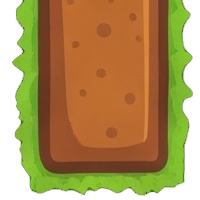
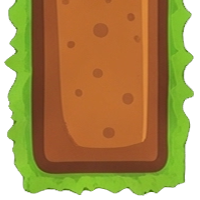
Added sprite direction to spit totem. some forest tile path fix

diff --git a/src/components/game/GameObjects.tsx b/src/components/game/GameObjects.tsx
@@ -8,9 +8,13 @@ import {
   GAP_SIZE,
   PLAYER_HITBOX_RADIUS, // Importa qui il raggio del giocatore
   PROJECTILE_HITBOX_RADIUS,
+  PROJECTILE_SPRITE_SIZE,
   IS_DEBUG_MODE // Importa la costante di debug
 } from "@/config/Constants";
-import totemSprite from "@/assets/ENEMY_totem_down.png";
+import totemSpriteDown from  "@/assets/ENEMY_totem_down.png";
+import totemSpriteUp from    "@/assets/ENEMY_totem_up.png";
+import totemSpriteLeft from  "@/assets/ENEMY_totem_left.png";
+import totemSpriteRight from "@/assets/ENEMY_totem_right.png";
 import projectileSprite from "@/assets/projectiles/totem_spit.png";
 
 interface GameObjectsProps {
@@ -20,6 +24,18 @@ interface GameObjectsProps {
 }
 
 const GameObjects = ({ level, gameState, assets }: GameObjectsProps) => {
+
+      // 1. Funzione helper per scegliere lo sprite del totem
+      const getTotemSprite = (direction: Direction) => {
+        switch (direction) {
+          case 'up': return totemSpriteUp;
+          case 'down': return totemSpriteDown;
+          case 'left': return totemSpriteLeft;
+          case 'right': return totemSpriteRight;
+          default: return totemSpriteDown; // Default nel caso la direzione non sia definita
+        }
+      };
+
   return (
     <>
       {/* RENDERIZZAZIONE DELLE CHIAVI */}
@@ -88,67 +104,66 @@ const GameObjects = ({ level, gameState, assets }: GameObjectsProps) => {
         </div>
       ))}
 
-      {/* RENDERIZZAZIONE DEI TOTEM */}
-      {gameState.spittingTotems.map((totem) => (
-          <div
-            key={totem.id}
-            className="absolute z-10"
-            style={{
-                width: CELL_SIZE,
-                height: CELL_SIZE,
-                left: totem.position.x * (CELL_SIZE + GAP_SIZE),
-                top: totem.position.y * (CELL_SIZE + GAP_SIZE),
-            }}
-          >
-            <img src={totemSprite} alt="Totem" className="w-full h-full object-contain" />
-          </div>
-      ))}
+      {/* RENDERIZZAZIONE DEI TOTEM (aggiornato) */}
+            {gameState.spittingTotems.map((totem) => (
+                <div
+                  key={totem.id}
+                  className="absolute z-10"
+                  style={{
+                      width: CELL_SIZE,
+                      height: CELL_SIZE,
+                      left: totem.position.x * (CELL_SIZE + GAP_SIZE),
+                      top: totem.position.y * (CELL_SIZE + GAP_SIZE),
+                  }}
+                >
+                  {/* 2. Usiamo la funzione helper per impostare l'immagine corretta */}
+                  <img src={getTotemSprite(totem.direction)} alt="Totem" className="w-full h-full object-contain" />
+                </div>
+            ))}
 
- {/* RENDERIZZAZIONE DEI PROIETTILI CON MOVIMENTO FLUIDO */}
-      {gameState.projectiles.map((projectile) => (
-          <div
-            key={projectile.id}
-            className="absolute z-10"
-            style={{
-                left: projectile.position.x,
-                top: projectile.position.y,
-                transform: 'translate(-50%, -50%)',
-                width: 24,
-                height: 24,
-            }}
-          >
-            <img src={projectileSprite} alt="Proiettile" className="w-full h-full object-contain" />
+            {/* RENDERIZZAZIONE DEI PROIETTILI CON MOVIMENTO FLUIDO (aggiornato) */}
+            {gameState.projectiles.map((projectile) => (
+                <div
+                  key={projectile.id}
+                  className="absolute z-10"
+                  style={{
+                      left: projectile.position.x,
+                      top: projectile.position.y,
+                      transform: 'translate(-50%, -50%)',
+                      width: PROJECTILE_SPRITE_SIZE,  // 3. Usiamo la costante
+                      height: PROJECTILE_SPRITE_SIZE, // 3. Usiamo la costante
+                  }}
+                >
+                  <img src={projectileSprite} alt="Proiettile" className="w-full h-full object-contain" />
+                  {IS_DEBUG_MODE && (
+                      <div
+                          className="absolute rounded-full border-2 border-red-500 bg-red-500/30"
+                          style={{
+                              width: PROJECTILE_HITBOX_RADIUS * 2,
+                              height: PROJECTILE_HITBOX_RADIUS * 2,
+                              left: '50%',
+                              top: '50%',
+                              transform: 'translate(-50%, -50%)',
+                          }}
+                      />
+                  )}
+                </div>
+            ))}
 
-            {/* DEBUG: Hitbox del Proiettile */}
+            {/* DEBUG: Hitbox del Giocatore (aggiornato) */}
             {IS_DEBUG_MODE && (
                 <div
-                    className="absolute rounded-full border-2 border-red-500 bg-red-500/30"
+                    className="absolute rounded-full border-2 border-green-500 bg-green-500/30 z-20"
                     style={{
-                        width: PROJECTILE_HITBOX_RADIUS * 2,  // Diametro = Raggio * 2
-                        height: PROJECTILE_HITBOX_RADIUS * 2, // Diametro = Raggio * 2
-                        left: '50%', // Centra rispetto al proiettile padre
-                        top: '50%',  // Centra rispetto al proiettile padre
-                        transform: 'translate(-50%, -50%)', // Sposta per centrare il cerchio
+                        width: PLAYER_HITBOX_RADIUS * 2,
+                        height: PLAYER_HITBOX_RADIUS * 2,
+                        left: gameState.playerPixelPosition.x, // Usa la posizione in pixel
+                        top: gameState.playerPixelPosition.y,   // Usa la posizione in pixel
+                        transform: 'translate(-50%, -50%)',
+                        // 4. La transizione CSS non è più necessaria qui
                     }}
                 />
             )}
-          </div>
-      ))}
-
-{IS_DEBUG_MODE && (
-    <div
-        className="absolute rounded-full border-2 border-green-500 bg-green-500/30 z-20"
-        style={{
-            width: PLAYER_HITBOX_RADIUS * 2,
-            height: PLAYER_HITBOX_RADIUS * 2,
-            left: gameState.playerPosition.x * (CELL_SIZE + GAP_SIZE) + (CELL_SIZE / 2),
-            top: gameState.playerPosition.y * (CELL_SIZE + GAP_SIZE) + (CELL_SIZE / 2) - 16,
-            transform: 'translate(-50%, -50%)',
-            // 👇 AGGIUNGI QUESTA RIGA 👇
-            transition: 'top 150ms linear, left 150ms linear',
-        }}
-    />
-)}
     </>
   );
 };

diff --git a/src/components/levels.tsx b/src/components/levels.tsx
@@ -1,7 +1,5 @@
-import { Level } from './game'; // Importa il tipo Level
+import { Level } from './game';
 
-// Ora tutti i tuoi livelli sono oggetti in un array.
-// Aggiungere un livello è semplice come aggiungere un nuovo oggetto.
 export const levels: Level[] = [
     /*
             1 - La Foresta Introduttiva
@@ -9,18 +7,20 @@ export const levels: Level[] = [
   {
     id: 1,
     name: "La Ciuco Foresta",
-    keys: [{ id: 1, position: { x: 2, y: 5 } }], // Corretto: la chiave è un oggetto in un array
-    doors: [{ id: 1, position: { x: 7, y: 2 }, type: 'key' }], // Corretto: la porta è un oggetto in un array
-    levers: [], // Aggiunto: array per le leve
+    keys: [
+        { id: 1, position: { x: 2, y: 5 } }],
+    doors: [
+        { id: 1, position: { x: 7, y: 2 }, type: 'key' }],
+    levers: [],
     enemies: [],
     grid: [
-          "----#   #-",
-          "----# # #-",
-          "##### #D#-",
-          "P   # #E#-",
-          "###   ###-",
-          "-#K# ##---",
-          "##   #----",
+          "#####   ##",
+          "##### # ##",
+          "##### #D##",
+          "P   # #E##",
+          "###   ####",
+          "-#K# #####",
+          "##   #####",
     ],
   },
       /*
@@ -29,20 +29,20 @@ export const levels: Level[] = [
   {
     id: 2,
     name: "Il Bruco",
-    keys: [], // Aggiunto: array vuoto
-    doors: [], // Aggiunto: array vuoto
-    levers: [], // Aggiunto: array vuoto
+    keys: [],
+    doors: [],
+    levers: [],
     enemies: [
         { id: 201, startPosition: { x: 7, y: 4 }, type: 'bruco', behavior: 'smart_active', visionRange: 4,  moveInterval: 1000}
     ],
     grid: [
-      "###-------",
-      "#P######--",
-      "# ##   #--",
+      "##########",
+      "#P########",
+      "# ##   ###",
       "# ## # ###",
       "#       E#",
       "##########",
-      "----------",
+      "##########",
     ],
   },
       /*
@@ -51,9 +51,9 @@ export const levels: Level[] = [
   {
     id: 3,
     name: "MapTest",
-    keys: [], // Aggiunto: array vuoto
-    doors: [], // Aggiunto: array vuoto
-    levers: [], // Aggiunto: array vuoto
+    keys: [],
+    doors: [],
+    levers: [],
     enemies: [],
     grid: [
       "#P#       ",
@@ -62,7 +62,7 @@ export const levels: Level[] = [
       "# ## # ###",
       "#        #",
       "# ## ### E",
-      "     #    ",
+      "     #   #",
     ],
   },
       /*
@@ -71,18 +71,21 @@ export const levels: Level[] = [
   {
     id: 4,
     name: "Oh god, another caterpillar",
-    keys: [{ id: 1, position: { x: 1, y: 2 } }],
-    doors: [{ id: 1, position: { x: 4, y: 5 }, type: 'key' }],
+    keys: [
+        { id: 1, position: { x: 1, y: 2 } }],
+    doors: [
+        { id: 1, position: { x: 4, y: 5 }, type: 'key' }],
     levers: [],
-    enemies: [ { id: 201, startPosition: { x: 1, y: 1 }, type: 'bruco', behavior: 'smart_active', visionRange: 4,  moveInterval: 1000}],
+    enemies: [
+        { id: 201, startPosition: { x: 1, y: 1 }, type: 'bruco', behavior: 'smart_active', visionRange: 4,  moveInterval: 1000}],
     grid: [
-      "#####-----",
-      "#   ####--",
-      "# #    #--",
-      "### ## #--",
-      "#      #--",
-      "#P## ###--",
-      "####E#----",
+      "##########",
+      "#   ######",
+      "# #    ###",
+      "### ## ###",
+      "#      ###",
+      "#P## #####",
+      "####E#####",
     ],
   },
       /*
@@ -118,10 +121,13 @@ export const levels: Level[] = [
       spittingTotems: [
         { id: 1, position: { x: 7, y: 6 }, direction: 'up', isAlive: true, lastShotTime: 600}
       ],
-      keys: [{ id: 1, position: { x: 1, y: 3 } }],
-      doors: [{ id: 1, position: { x: 3, y: 2 }, type: 'key' }],
+      keys: [
+          { id: 1, position: { x: 1, y: 3 } }],
+      doors: [
+          { id: 1, position: { x: 3, y: 2 }, type: 'key' }],
       levers: [],
-      enemies: [ { id: 601, startPosition: { x: 1, y: 2 }, type: 'bruco', behavior: 'smart_active', visionRange: 4,  moveInterval: 1000}],
+      enemies: [
+          { id: 601, startPosition: { x: 1, y: 2 }, type: 'bruco', behavior: 'smart_active', visionRange: 4,  moveInterval: 1000}],
     grid: [
       "##########",
       "#         ",

diff --git a/src/config/Constants.ts b/src/config/Constants.ts
@@ -9,6 +9,7 @@ export const SWIPE_THRESHOLD = 30;
 export const PLAYER_HITBOX_RADIUS = 18; // es. se la cella è 48px, un raggio di 18 è permissivo
 export const ENEMY_HITBOX_RADIUS = 18;
 export const PROJECTILE_HITBOX_RADIUS = 10; // I proiettili di solito hanno una hitbox più piccola del loro sprite
+export const PROJECTILE_SPRITE_SIZE = 22;
 
 export const IS_DEBUG_MODE = true;
 
